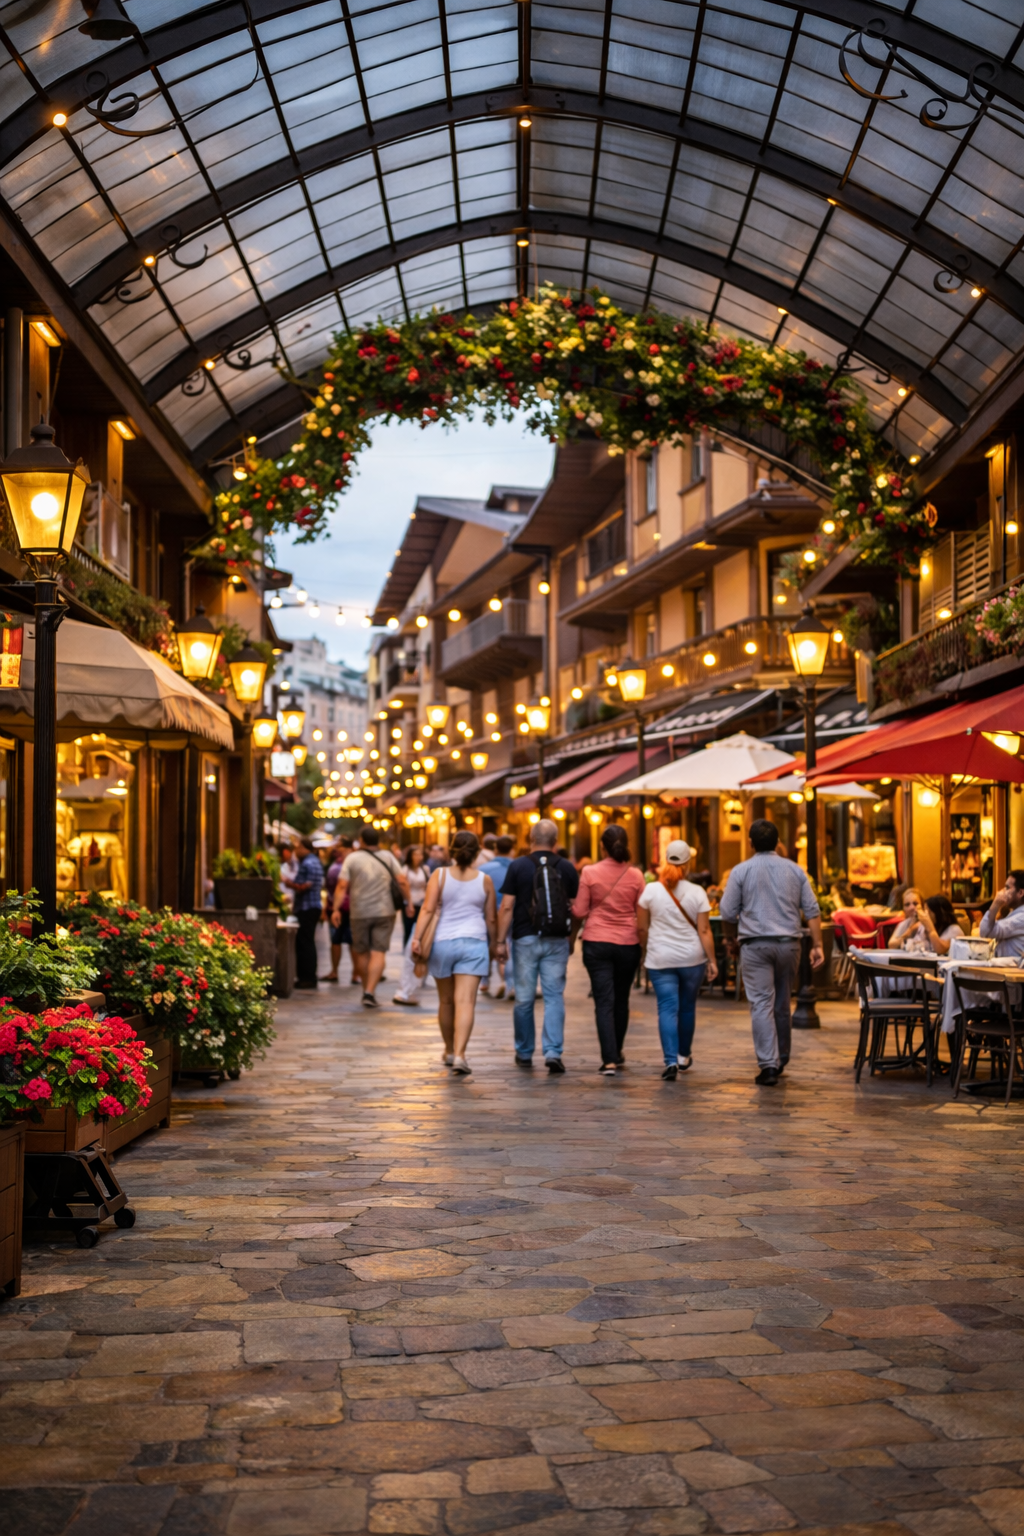
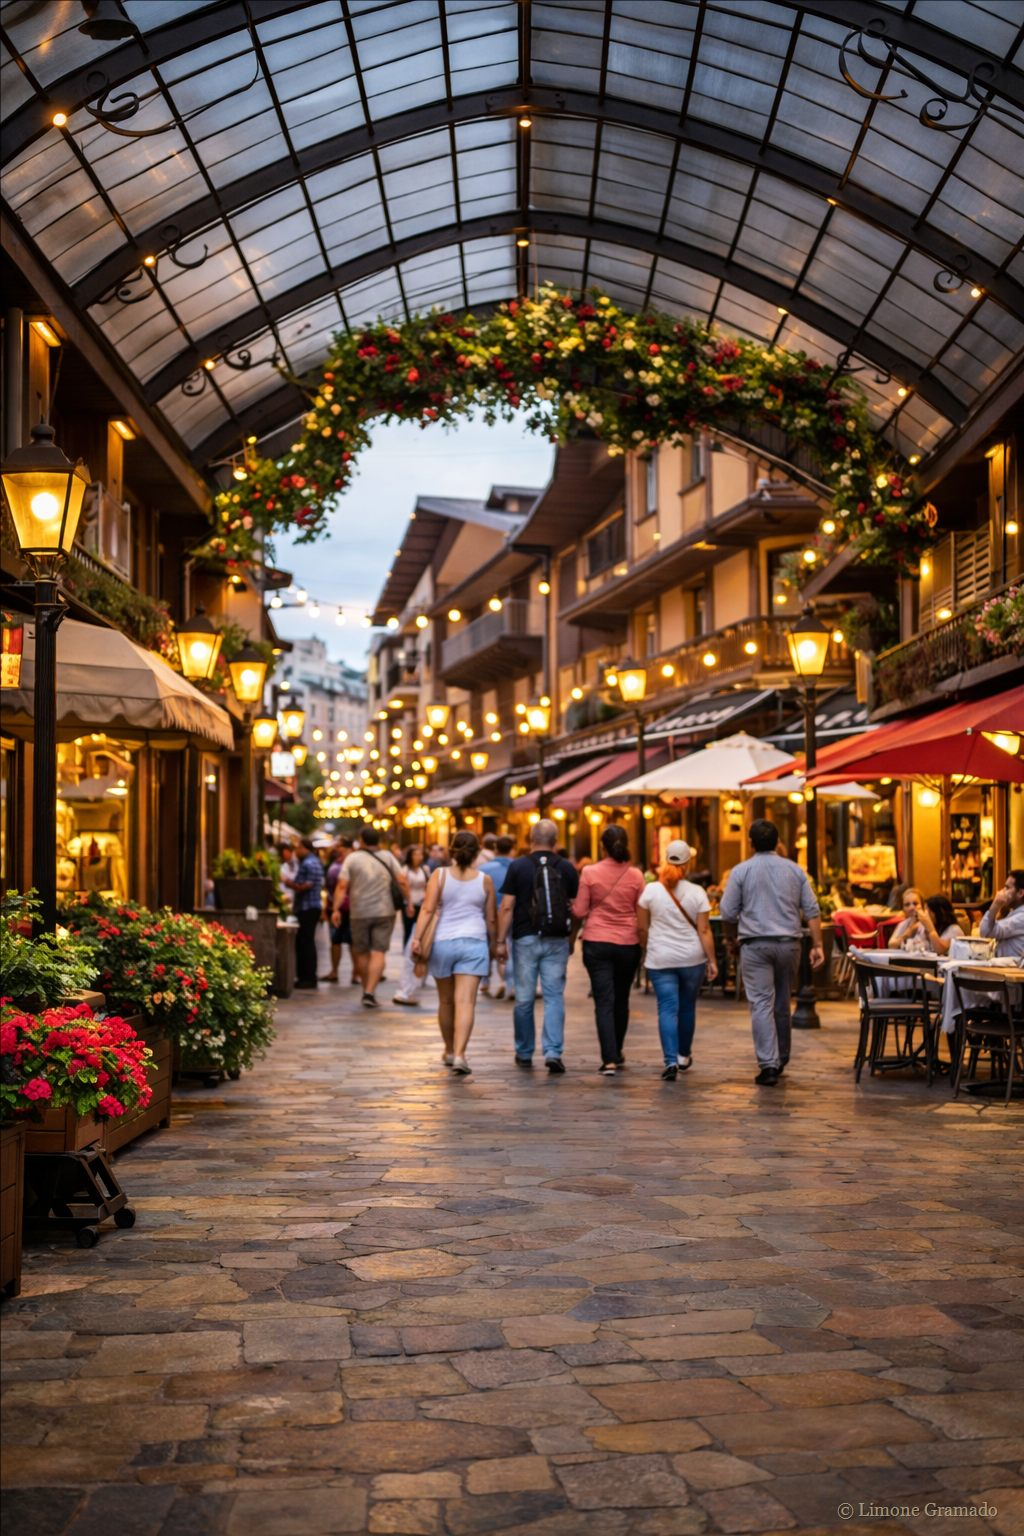
Optimize images, remove metadata, add watermark, switch to web JPG assets

Changed region(s): [[0.8438, 0.9688, 0.9688, 1.0], [0.375, 0.4688, 0.4375, 0.5], [0.3438, 0.5, 0.375, 0.5312]]

diff --git a/app/layout.tsx b/app/layout.tsx
@@ -35,7 +35,7 @@ export const metadata: Metadata = {
     siteName: "Limone Gramado",
     images: [
       {
-        url: "/assets/og-limone-1200x630.png",
+        url: "/assets/og-limone-1200x630.jpg",
         width: 1200,
         height: 630,
         alt: "Limoncello artesanal Limone Gramado",
@@ -48,7 +48,7 @@ export const metadata: Metadata = {
     card: "summary_large_image",
     title: seoTitle,
     description: seoDescription,
-    images: ["/assets/og-limone-1200x630.png"],
+    images: ["/assets/og-limone-1200x630.jpg"],
   },
 };
 
@@ -59,5 +59,6 @@ export default function RootLayout({ children }: Readonly<{ children: React.Reac
     </html>
   );
 }
+
 
 

diff --git a/components/StorySection.tsx b/components/StorySection.tsx
@@ -29,7 +29,7 @@ export default function StorySection() {
 
         <figure className="surface-card overflow-hidden p-2">
           <Image
-            src="/assets/michele-story.png"
+            src="/assets/michele-story.jpg"
             alt="História do fundador do Limone Gramado"
             width={1024}
             height={1536}
@@ -44,3 +44,4 @@ export default function StorySection() {
     </section>
   );
 }
+
